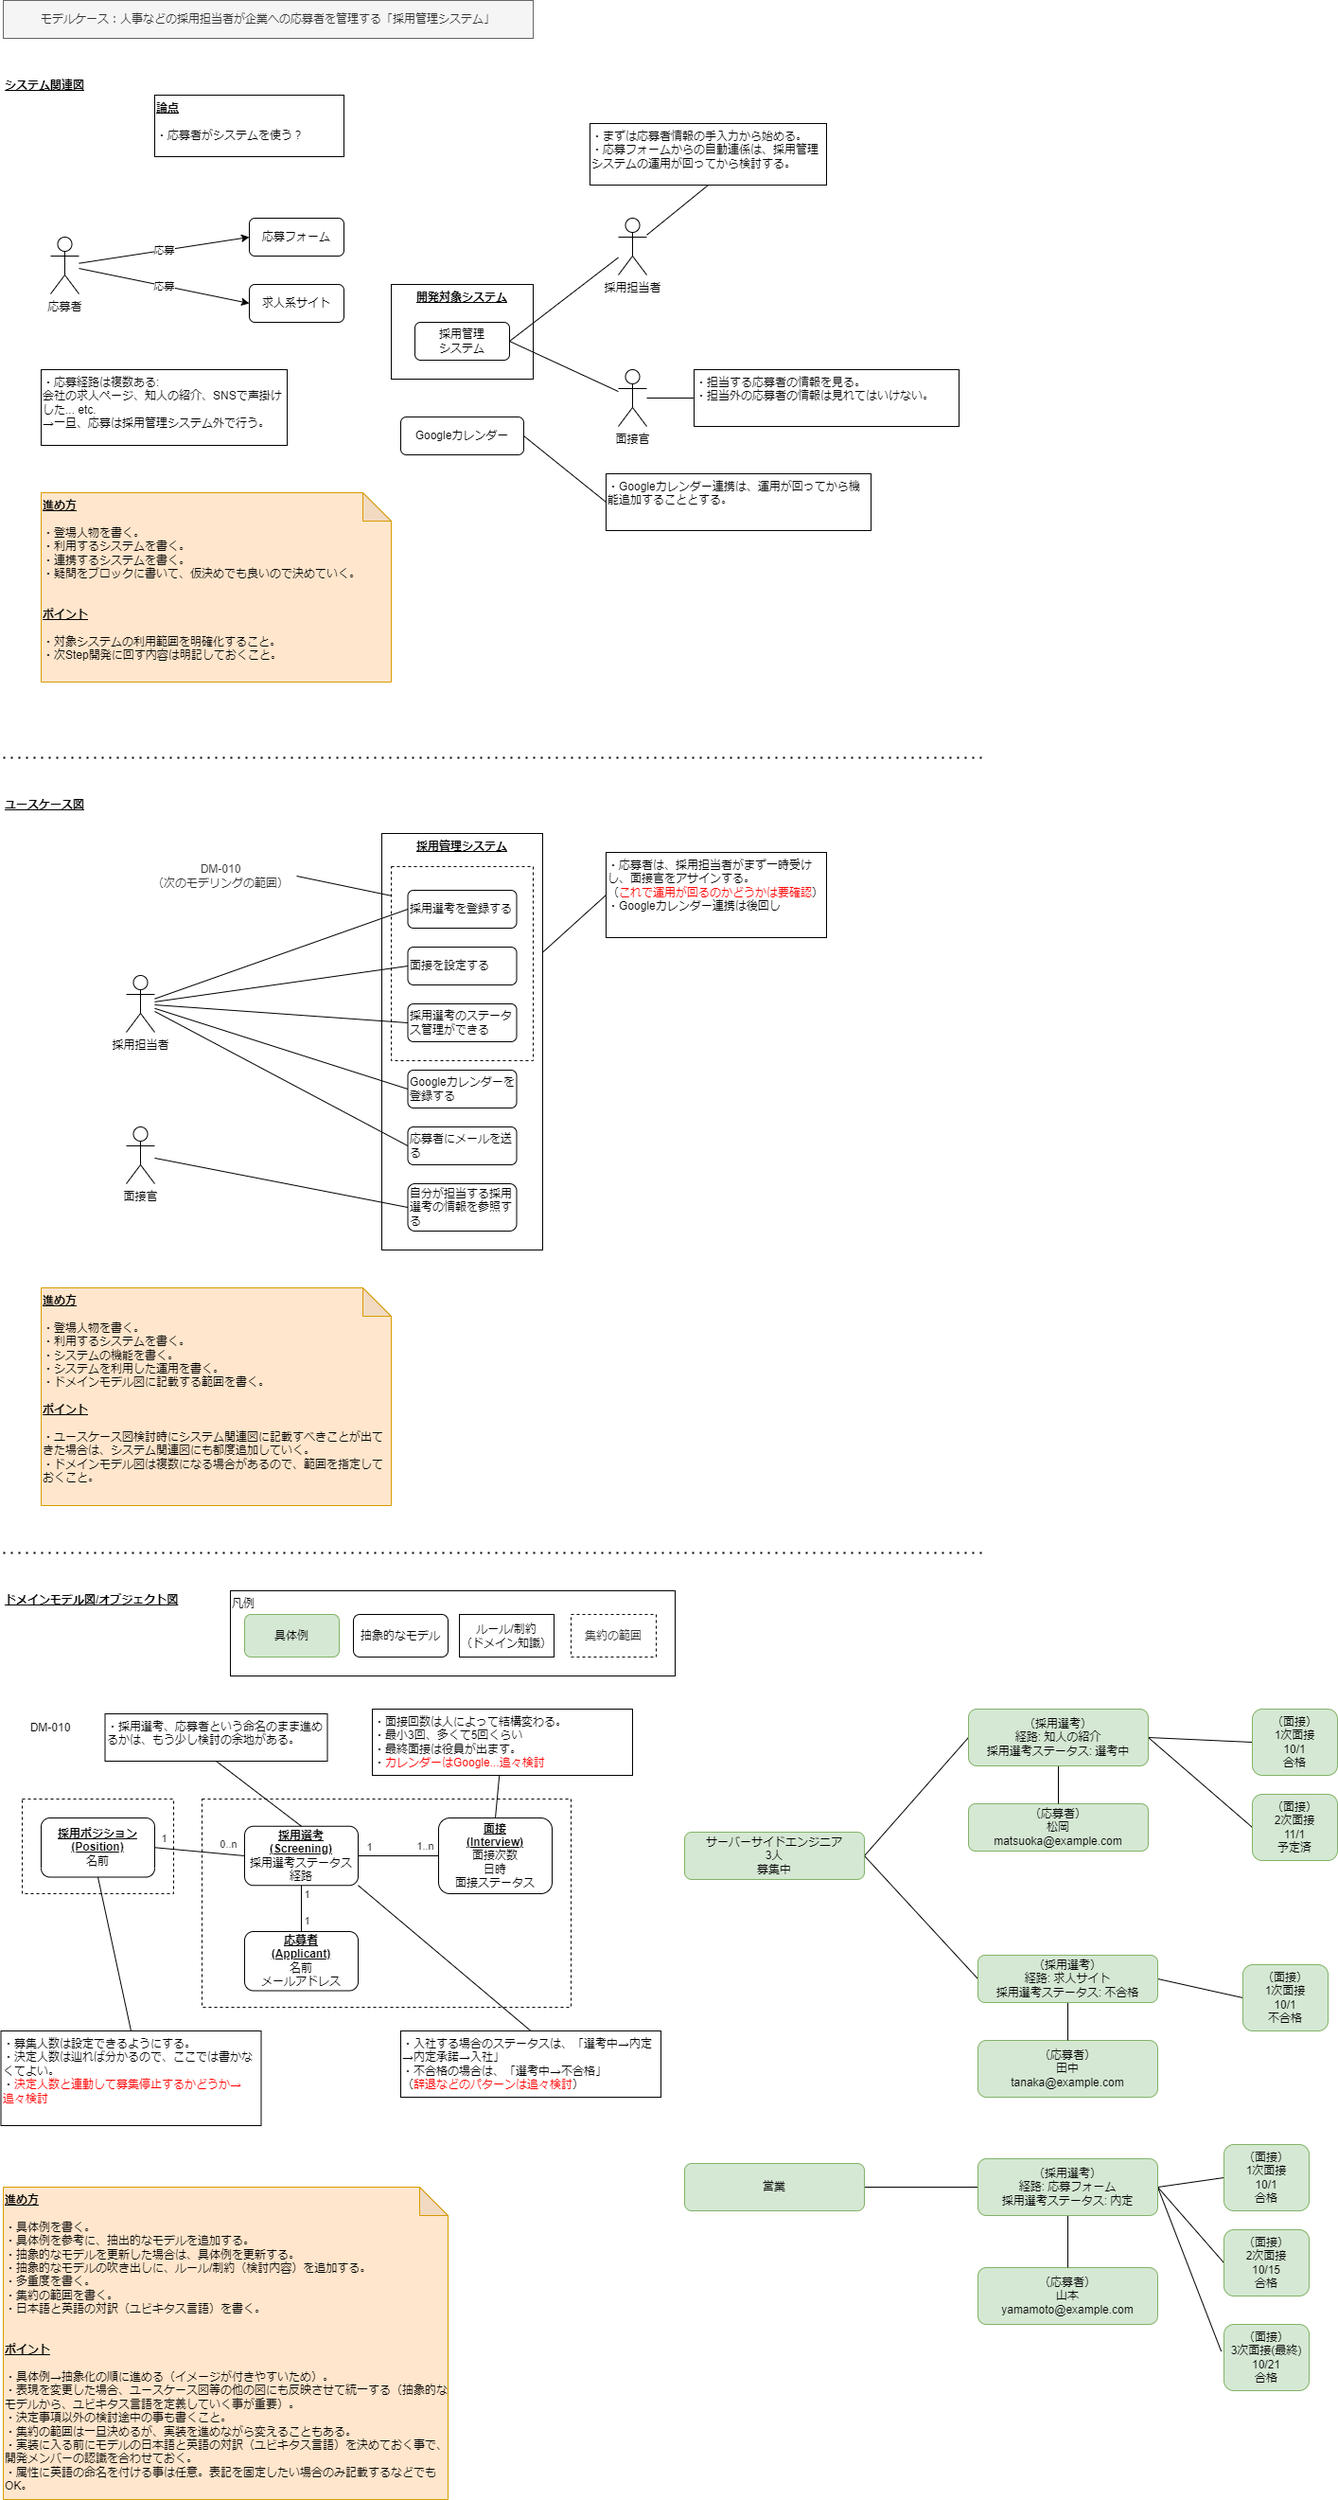
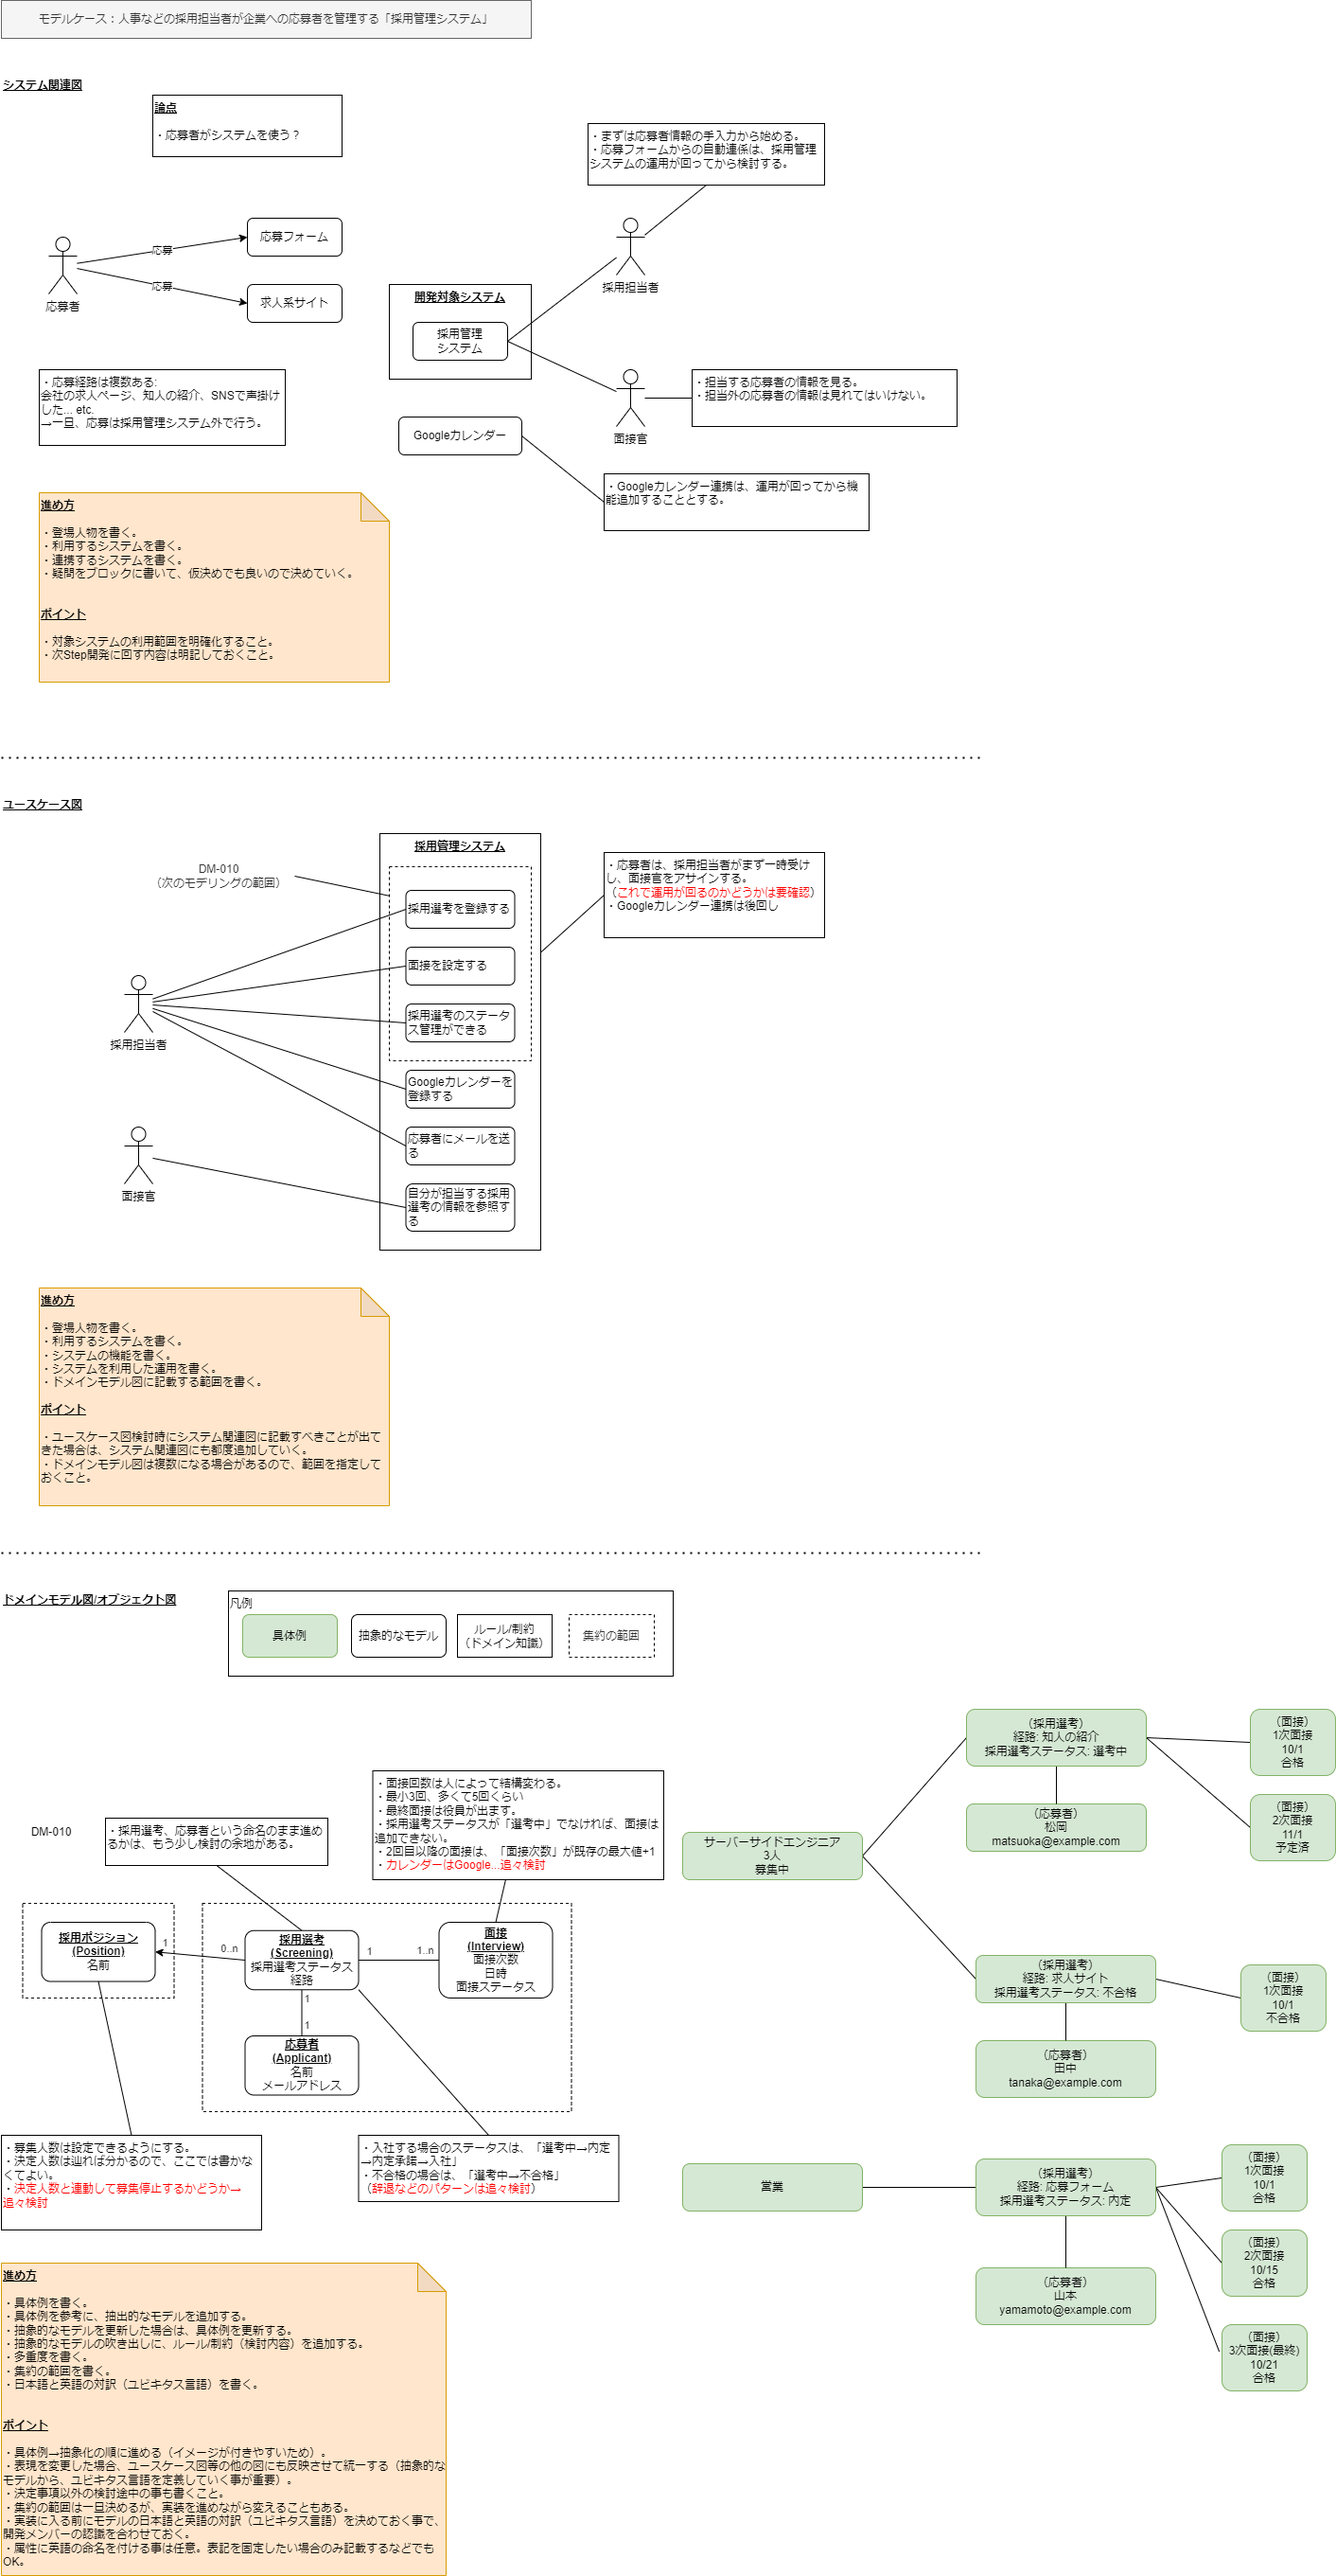
docs(ddd): ドメインモデリング更新、サンプルコード追加

diff --git a/ddd/sample-code.ts b/ddd/sample-code.ts
@@ -1,0 +1,157 @@
+// ---- ---- 採用選考集約 ---- ---- //
+
+/** 採用選考エンティティ */
+export class Screening {
+  /**
+   * コンストラクタ
+   * @param id 採用選考ID
+   * @param _status 採用選考ステータス
+   * @param applicationRoute 応募経路
+   * @param applicant 応募者
+   * @param positionId 採用ポジション（集約またぎの参照）
+   * @param _interviews 面接
+   */
+  constructor (
+    private id: ScreeningId,
+    private _status: ScreeningStatus, 
+    private applicationRoute: string,
+    private applicant: Applicant,
+    private positionId: PositionId,
+    private _interviews: Interview[]
+  ) {
+  }
+
+  get status() {
+    return this._status;
+  }
+
+  get interviews() {
+    return this._interviews;
+  }
+
+  addInterview(interviewDate: Date) {
+    // 選考ステータスのバリデーション
+    // 選考中でなければ、面接は追加できない。 → これがドメイン層の実装になった
+    if(this.status !== ScreeningStatus.選考中) {
+      // NOTE: DomainExceptionなど、ドメイン層に実装する例外に投げる方が良い
+      throw new Error("選考中ではない採用選考に、面接を追加できません");
+    }
+
+    // 新しい面接を作成
+    const newInterview = new Interview(
+      // 2回目以降の面接は、「面接次数」が既存の最大値+1 → これがドメイン層の実装になった
+      this.interviews.length + 1, 
+      interviewDate);
+
+    // 新しい面接を追加    
+    this.interviews.push(newInterview);
+  }
+}
+
+/** 採用選考ID（Value Object） */
+export class ScreeningId {
+  constructor(private id: string) {}
+}
+
+// ---- ---- ---- ---- ---- ---- ---- ----
+// ドメインロジックをユースケースに書いてしまった悪いパターン
+export class AddInterviewUseCase {
+  constructor(
+    private screeningRepository: ScreeningRepository
+  ){}
+
+  execute(screeningId: ScreeningId, interviewDate: Date) {
+    // ---- 良い実装 ---- //
+    // 採用選考を取得する。
+    const screening = this.screeningRepository.findById(screeningId);
+    if(!screening) {
+      throw new Error("採用選考は見つかりません");
+    };
+
+    // 面接を追加する。
+    screening.addInterview(interviewDate);
+    // 採用選考を保存する。
+    this.screeningRepository.update(screening);
+
+    // ---- 悪い実装 ---- //
+    /*
+    const screening = this.screeningRepository.findById(screeningId);
+    if(!screening) {
+      throw new Error("採用選考は見つかりません");
+    };
+
+    // 選考ステータスのバリデーション
+    // 選考中でなければ、面接は追加できない。 → これはドメイン層に書くべき
+    if(screening.status !== ScreeningStatus.選考中) {
+      throw new Error("選考中ではない採用選考に、面接を追加できません");
+    }
+
+    // 新しい面接を作成
+    const newInterview = new Interview(
+      // 2回目以降の面接は、「面接次数」が既存の最大値+1 → これはドメイン層に書くべき
+      screening.interviews.length + 1, 
+      interviewDate);
+
+    // 新しい面接を追加    
+    screening.interviews.push(newInterview);
+    // screening.interviews = [new Interview(1, new Date())]; // setを開示していないため、代入不可
+    */
+  }
+}
+// ---- ---- ---- ---- ---- ---- ---- ----
+
+
+/** 採用選考ステータス */
+const ScreeningStatus = {
+  "選考中": 0,
+  "内定": 1,
+  "内定承諾": 2,
+  "入社" : 3,
+  "不合格": 4
+} as const
+
+type ScreeningStatus = typeof ScreeningStatus[keyof typeof ScreeningStatus]
+
+/** 採用選考リポジトリ */
+export interface ScreeningRepository {
+  insert(screening: Screening): void
+  findById(screeningId: ScreeningId): Screening | undefined
+  update(screening: Screening): void;
+}
+
+/** 応募者エンティティ */
+export class Applicant {
+
+  constructor(
+    private name: string, 
+    private email: string) {
+  }
+}
+
+/** 面接エンティティ */
+export class Interview {
+  constructor(
+    private interviewNumber: number,
+    private interviewData: Date
+  ){}
+}
+
+// ---- ---- 採用ポジション集約 ---- ---- //
+
+// domain/entities/psition.ts
+/** 採用ポジションエンティティ */
+export class Positon {
+  constructor(
+    private id: PositionId,
+    private name: string
+  ){}
+}
+
+export interface PositionRepository {
+  insert(positon: Positon): void
+  findById(positionId: PositionId): Positon | undefined
+}
+
+export class PositionId {
+  constructor(private id: string){}
+}

diff --git a/ddd/02-モデリング方法.md b/ddd/02-モデリング方法.md
@@ -29,3 +29,7 @@
 ## オブジェクト図
 
 ドメインモデルの具体例を示した図
+
+## 実装時のポイント
+
+- コードは極力モデルと同じ形での表現を目指す。　※モデルに変更があった時、コードのどこに反映すべきか分からなくなる。
